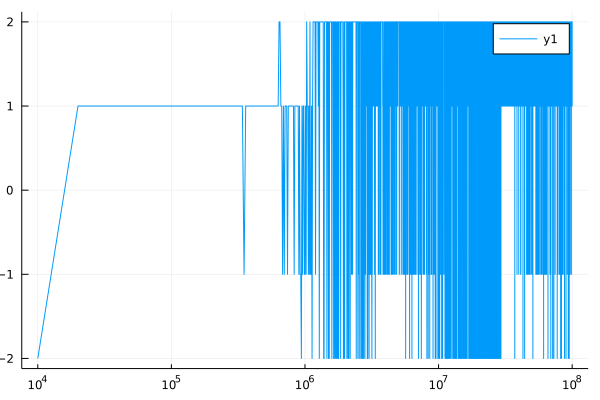
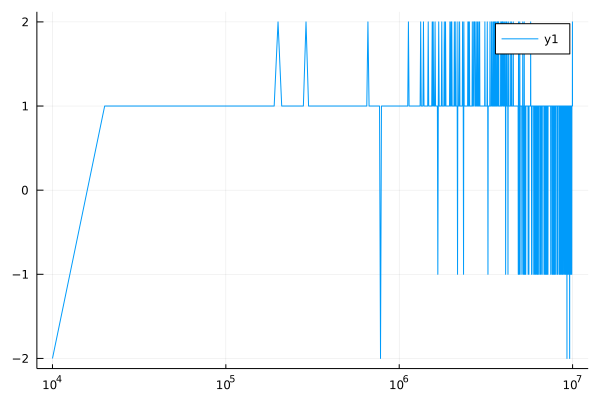
rewrite nfsp.jl

diff --git a/README.md b/README.md
@@ -1,20 +1,40 @@
 #### NFSP Kuhn
 
-Use `Julia` to implement `Neural Fictitious Self-play(NFSP)` algorithm and test it on `Kuhn_Poker` game(use `KuhnPokerEnv`).
+Use `Julia` to implement `Neural Fictitious Self-play(NFSP)` algorithm and test it on `kuhn poker` game(use Env `KuhnPokerEnv`).
 
-Based on `DQNLearner` in `QBasedPolicy` (as RL) and `BehaviorCloningPolicy` in `offline_rl` (as SL) to learn the best policy.
+* rl_agent: 
+```julia
+Agent(
+    policy = QBasedPolicy(
+        learner = DQNLearner,
+        explorer = EpsilonGreedyExplorer,
+    ),
+    trajectory = CircularArraySARTTrajectory
+)
+```
+
+* sl_agent:
+```julia
+Agent(
+    policy = QBasedPolicy(
+        learner = AverageLearner
+        explorer = GreedyExplorer,
+    ),
+    trajectory = CircularArraySARTTrajectory,
+)
+```
+
+where `AverageLearner` is an AbstractLearner which I imitated the structure from `DQNLearner` and the loss function is `logitcrossentropy`.
 
 ##### recent progress
 
 set:
 
-* $\epsilon$ _ decay = 20000000,
-* train_episodes = 100000000,
-* eval_every = 10000,
+* $\epsilon$ _ decay = 2_000_000,
+* train_episodes = 10_000_000,
+* eval_every = 10_000,
 * $\epsilon$ _ decay kind = linear.
 
 get player 1 reward based on the trained policy
 
 ![result](./result.png)
-
-However, `nash_conv` is a more reliable metric for evaluating and I don't know how to  approximate it.
